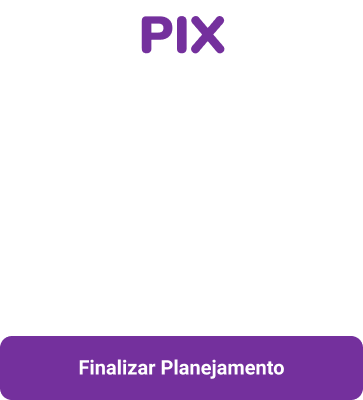
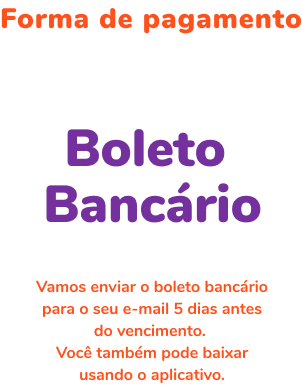
last changes

diff --git a/src/Components/Pages/TravelNew4/index.tsx b/src/Components/Pages/TravelNew4/index.tsx
@@ -1,7 +1,8 @@
 import React from "react";
 import FormView from "../../Organisms/Views/FormView";
 import {Container,Content} from './styles'
-import content from '../../../Util/png/new.png'
+import content from '../../../Util/png/new4.png'
+import ActionButton from "../../Atoms/ActionButton";
 
 
 
@@ -14,6 +15,8 @@ function Index(props:any) {
         <FormView
         >
           <Content src={content}/>
+          <ActionButton title="Finalizar Planejamento" to="home" color="var(--sm-purple-02)"/>
+          <ActionButton title="Baixar Boleto Bancário" to="home" color="var(--sm-orange-01)"/>
         </FormView>
     </Container>
   );

diff --git a/src/Components/Pages/TravelNew4/styles.ts b/src/Components/Pages/TravelNew4/styles.ts
@@ -12,5 +12,5 @@ export const Container = styled.div`
 
 export const Content = styled.img`
     margin:10px;
-    width:  100%;
+    width:  90%;
 `;
